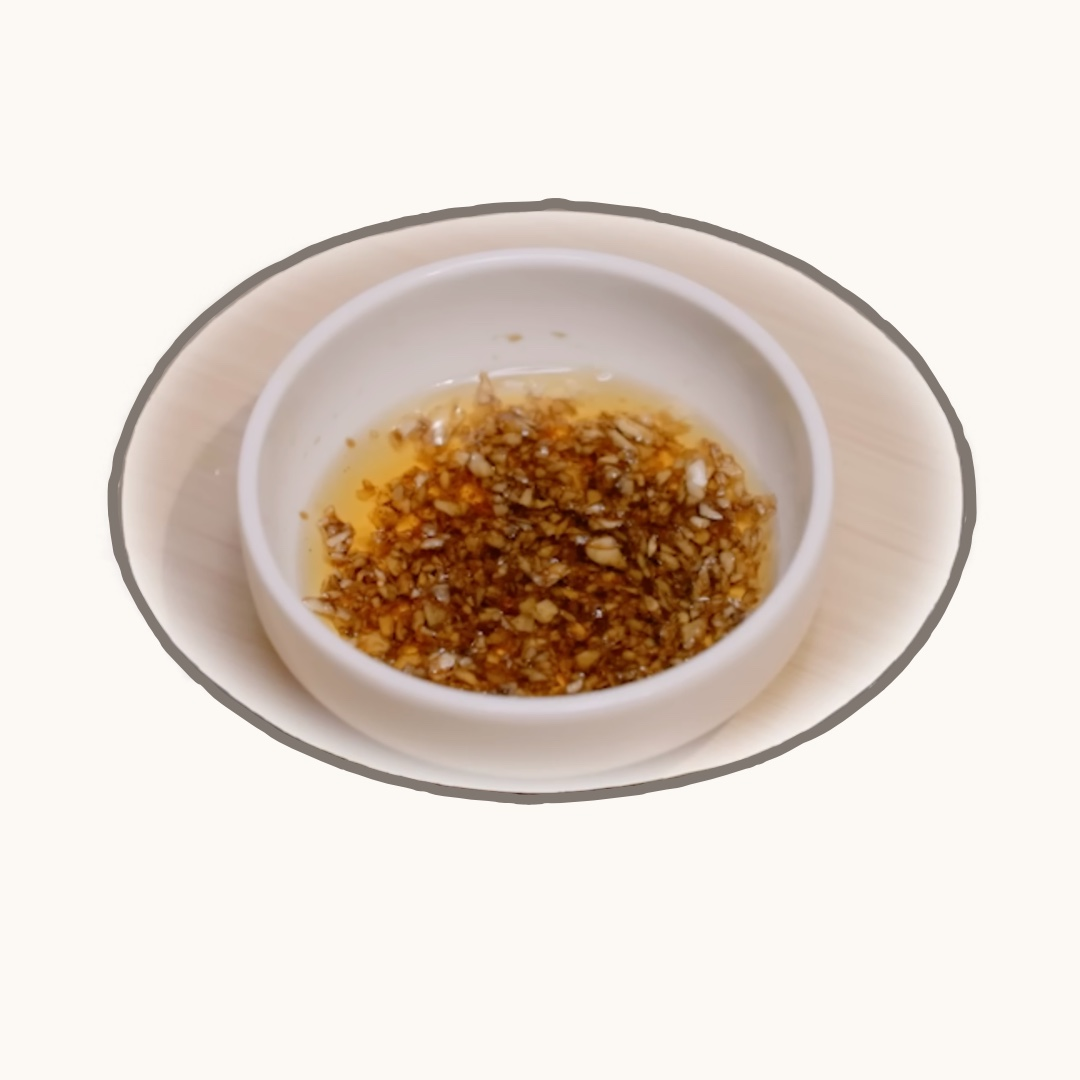
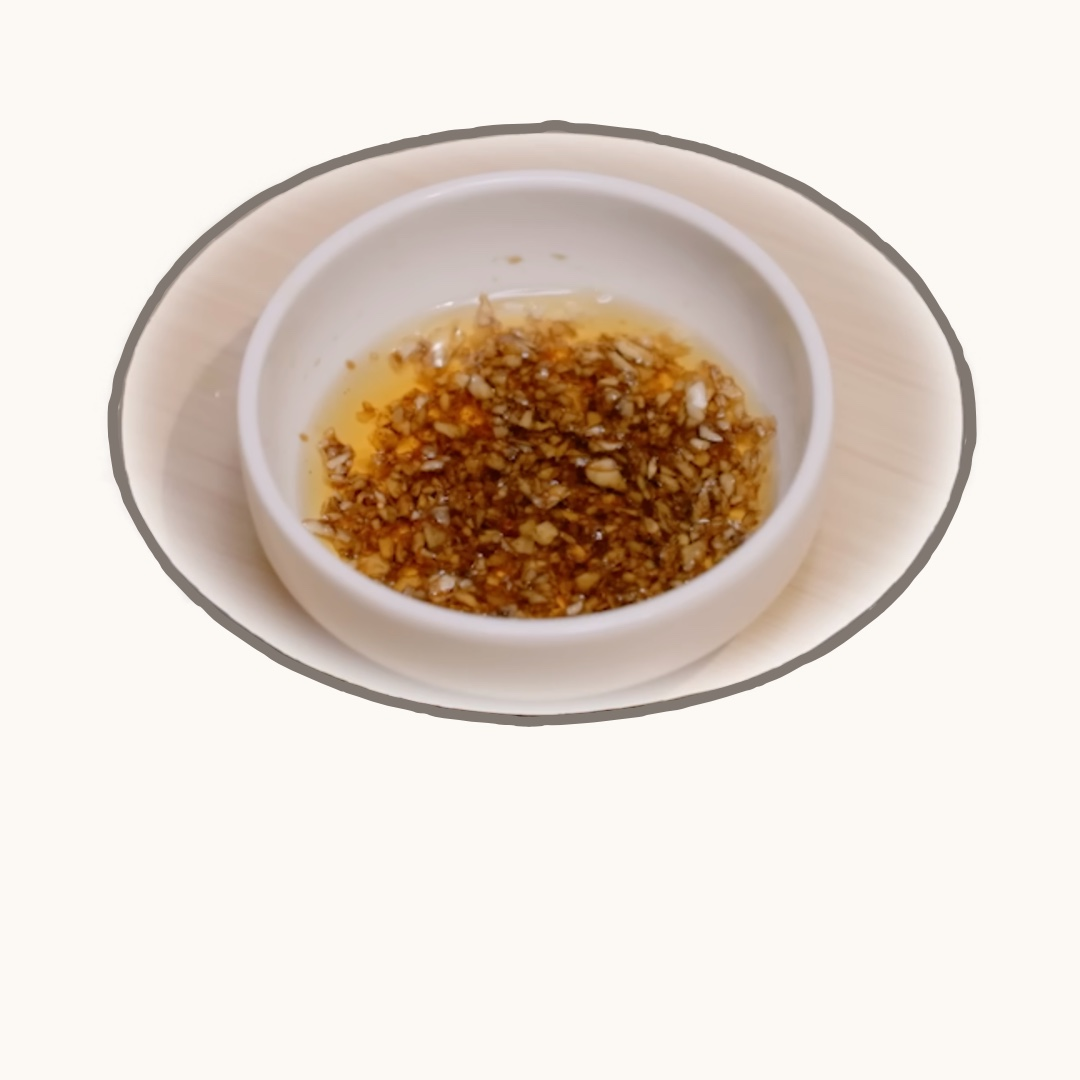
content(홈 배너): 이달의 소스 이미지 교체 — 구도 위로 조정 (script v353)

diff --git a/script.js b/script.js
@@ -125,7 +125,7 @@
       ings: [['땅콩참깨소스', '3', '스푼'], ['다진 파', '3', '스푼'], ['양파', '2', '스푼'], ['고수', '1', '스푼'], ['다진 마늘', '0.5', '스푼']],
       steps: [],
       tip: '' },
-    { id: 's19', date: '2026-06-09', cat: '소스', emoji: '🥣', img: 'assets/cards/박은영소스(참기름).jpg?v=1', heroImg: 'assets/monthly-sauce/s19.jpg?v=5', imgFit: 'cover', tint: 'linear-gradient(160deg,#F7EFD8,#EBDBB0)', name: '박은영소스', ver: '참기름', source: 'YouTube 밥은영', star: true, person: '박은영', heroDesc: '하얼빈 정통파, 중식 여신 박은영 셰프의 참기름 소스', desc: '유튜브 <b>밥은영</b> 촬영 중 <b>박은영</b> 셰프가 공개한 소스이다.',
+    { id: 's19', date: '2026-06-09', cat: '소스', emoji: '🥣', img: 'assets/cards/박은영소스(참기름).jpg?v=1', heroImg: 'assets/monthly-sauce/s19.jpg?v=6', imgFit: 'cover', tint: 'linear-gradient(160deg,#F7EFD8,#EBDBB0)', name: '박은영소스', ver: '참기름', source: 'YouTube 밥은영', star: true, person: '박은영', heroDesc: '하얼빈 정통파, 중식 여신 박은영 셰프의 참기름 소스', desc: '유튜브 <b>밥은영</b> 촬영 중 <b>박은영</b> 셰프가 공개한 소스이다.',
       ings: [['참기름', '4', '스푼'], ['중국식초', '1', '스푼'], ['다진 마늘', '2', '스푼'], ['소금', '', '한 꼬집']],
       steps: [],
       tip: '' },

diff --git a/index.html b/index.html
@@ -680,7 +680,7 @@
   </div>
 </div>
 
-<script src="script.js?v=352"></script>
+<script src="script.js?v=353"></script>
 
 <!-- Cloudflare Web Analytics --><script type='module' src='https://static.cloudflareinsights.com/beacon.min.js' data-cf-beacon='{"token": "d7c0ac8f66544156bca23d2c7f84c961"}'></script><!-- End Cloudflare Web Analytics -->
 </body>
